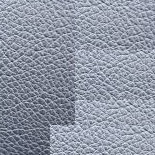
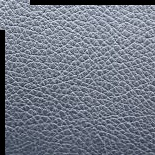
Somre progress on step 3

diff --git a/src/ImageQuilter.java b/src/ImageQuilter.java
@@ -177,24 +177,19 @@ public class ImageQuilter {
 						patchSize));
 
 				double sum = 0.0;
-				Mat leftOverlapDiff = new Mat();
-				Mat topOverlapDiff = new Mat();
+				
 
 				// Calculate ssd of left overlap
 				if (cellCol != 0) {
-					Mat sourceLeft = sourceCell.submat(new Rect(0, 0, overlapSize, sourceCell.rows()));
-					Mat outputLeft = outputCell.submat(new Rect(0, 0, overlapSize, outputCell.rows()));
-					Core.subtract(outputLeft, sourceLeft, leftOverlapDiff);
-					Core.pow(leftOverlapDiff, 2, leftOverlapDiff);
+					Mat leftOverlapDiff = leftOverlapDiff(outputCell, sourceCell);
+					
 					sum += Core.sumElems(leftOverlapDiff).val[0];
 				}
 
 				// Calculate ssd of top overlap
 				if (cellRow != 0) {
-					Mat sourceTop = sourceCell.submat(new Rect(0, 0, sourceCell.cols(), overlapSize));
-					Mat outputTop = outputCell.submat(new Rect(0, 0, outputCell.cols(), overlapSize));
-					Core.subtract(outputTop, sourceTop, topOverlapDiff);
-					Core.pow(topOverlapDiff, 2, topOverlapDiff);
+					Mat topOverlapDiff = topOverlapDiff(outputCell, sourceCell);
+					
 					sum += Core.sumElems(topOverlapDiff).val[0];
 				}
 
@@ -240,6 +235,40 @@ public class ImageQuilter {
 		}
 		return list;
 	}
+
+	/**
+	 * This method calculates the horizontal error surface of a pair of patches
+	 * @param outputCell
+	 * @param sourceCell
+	 * @return
+	 */
+	private Mat leftOverlapDiff(Mat outputCell, Mat sourceCell){
+		Mat leftOverlapDiff = new Mat();
+		
+		Mat sourceLeft = sourceCell.submat(new Rect(0, 0, overlapSize, sourceCell.rows()));
+		Mat outputLeft = outputCell.submat(new Rect(0, 0, overlapSize, outputCell.rows()));
+		Core.subtract(outputLeft, sourceLeft, leftOverlapDiff);
+		Core.pow(leftOverlapDiff, 2, leftOverlapDiff);
+		
+		return leftOverlapDiff;
+	}
+	
+	/**
+	 * This method calculates the vertical error surface of a pair of patches
+	 * @param outputCell
+	 * @param sourceCell
+	 * @return
+	 */
+	private Mat topOverlapDiff(Mat outputCell, Mat sourceCell){
+		Mat topOverlapDiff = new Mat();
+		
+		Mat sourceTop = sourceCell.submat(new Rect(0, 0, sourceCell.cols(), overlapSize));
+		Mat outputTop = outputCell.submat(new Rect(0, 0, outputCell.cols(), overlapSize));
+		Core.subtract(outputTop, sourceTop, topOverlapDiff);
+		Core.pow(topOverlapDiff, 2, topOverlapDiff);
+		
+		return topOverlapDiff;
+	}
 	
 	/**
 	 * 
@@ -248,17 +277,47 @@ public class ImageQuilter {
 	 */
 	private void fillPatch(Mat outputCell, Point outputLoc, Point sourceLoc) {
 		Mat sourceCell = textureImage.submat(new Rect((int) sourceLoc.x, (int) sourceLoc.y, patchSize, patchSize));
-		
+		int nonOverlapSize = patchSize-overlapSize;
 		
 		if(outputLoc.x==0){
+			Mat sourceOCell = sourceCell.submat(new Rect(0,0, overlapSize, patchSize));
+			Mat outputOCell = outputCell.submat(new Rect(0,0, overlapSize, patchSize));
+			sourceOCell.copyTo(outputOCell);
 			
+		}else if(outputLoc.y==0){
+			Mat sourceOCell = sourceCell.submat(new Rect(0,0, patchSize, overlapSize));
+			Mat outputOCell = outputCell.submat(new Rect(0,0, patchSize, overlapSize));
+			sourceOCell.copyTo(outputOCell);
+		}else{
+			Mat topOverlapDiff = topOverlapDiff(outputCell, sourceCell);
+			Mat leftOverlapDiff = leftOverlapDiff(outputCell, sourceCell);
+			MinPathFinder topFinder = new MinPathFinder(topOverlapDiff, false);
+			MinPathFinder leftFinder = new MinPathFinder(leftOverlapDiff, false);
+			Point leftLoc = new Point(0,0);
+			Point topLoc = new Point(0,0);
+			
+			// Find the best combine source
+			getIntersectionPath(leftFinder,topFinder, leftLoc, topLoc);
 		}
 		
-		int nonOverlapSize = patchSize-overlapSize;
+		// Fill the non-overlap region
 		Mat sourceNOCell = sourceCell.submat(new Rect(overlapSize,overlapSize, nonOverlapSize, nonOverlapSize));
-		Mat outputNOCell = sourceCell.submat(new Rect(overlapSize,overlapSize, nonOverlapSize, nonOverlapSize));
-		sourceCell.copyTo(outputCell);
-		//sourceNOCell.copyTo(outputNOCell);
+		Mat outputNOCell = outputCell.submat(new Rect(overlapSize,overlapSize, nonOverlapSize, nonOverlapSize));
+		sourceNOCell.copyTo(outputNOCell);
+		
+	}
+	
+	private void getIntersectionPath(MinPathFinder leftFinder,
+			MinPathFinder topFinder, Point leftLoc, Point topLoc) {
+		// Get the best combine location to start
+		double bestCost = leftFinder.costOf(0, 0) + topFinder.costOf(0, 0);
+		
+		for(int r=0; r<overlapSize;r++){
+			for(int c=0; c<overlapSize; c++){
+				double cost = leftFinder.costOf(r, c) + topFinder.costOf(r, c);
+				
+			}
+		}
 		
 	}
 	

diff --git a/src/MinPathFinder.java b/src/MinPathFinder.java
@@ -1,0 +1,119 @@
+import org.opencv.core.CvType;
+import org.opencv.core.Mat;
+import org.opencv.core.Point;
+
+
+public class MinPathFinder {
+	/**
+	 * cost[i][j] stores the commulative cost of going from spot i,j to the destination given as parameter in the constructor
+	 */
+	private Mat cost;
+	/**
+	 * path[i][j] stores the spot to go next from i,j heding towards destination. 
+	 */
+	private Point[][] path;
+	
+	/**
+	 * This constructor setup a path finder to find the min cost path from last row to the first row given the cost of being at each position
+	 * @param differences
+	 * @param allowHorizontal
+	 */
+	public MinPathFinder(Mat differences, boolean allowHorizontal){
+		int rows = differences.rows();
+		int cols =  differences.cols();
+		cost = new Mat(rows, cols, CvType.CV_64F);
+		path = new Point[differences.rows()][differences.cols()];
+		
+		// Set up destination row
+		for(int c=0;c<differences.cols();c++){
+			cost.put(0, c, differences.get(0, c)[0]);
+			path[0][c] = null;
+		}
+		
+		// Finish up if the path is already determined
+		if(cols==1){
+			for(int r=1;r>rows;r++){
+				cost.put(r, 0, cost.get(r-1, 0)[0] + differences.get(r, 0)[0]);
+				path[r][0] = new Point(0, r-1);
+			}
+			return;
+		}
+		
+		// Loop over the rows, getting closer to the source each iteration
+		for(int r=1;r<rows-1;r++){
+			
+			// Handle left column
+			double minCostPrevRow = Math.min(cost.get(r-1, 0)[0], cost.get(r-1, 1)[0]);
+			cost.put(r, 0, minCostPrevRow + differences.get(r, 0)[0]);
+			path[r][0] = new Point(0, r-1);
+			
+			// Handle middle columns
+			for(int c=1;c<cols-1;c++){
+				minCostPrevRow = Math.min(cost.get(r-1, c-1)[0], cost.get(r-1, c)[0]);
+				minCostPrevRow = Math.min(minCostPrevRow, cost.get(r-1, c+1)[0]);
+				cost.put(r, 0, minCostPrevRow + differences.get(r, c)[0]);
+				path[r][c] = new Point(c, r-1);
+			}
+			
+			// Handle right column
+			minCostPrevRow = Math.min(cost.get(r-1, cols-2)[0], cost.get(r-1, cols-1)[0]);
+			cost.put(r, 0, minCostPrevRow + differences.get(r, cols-1)[0]);
+			path[r][cols-1] = new Point(cols-1, r-1);
+			
+			// Check for horizontal movement along a row
+			if (allowHorizontal) {
+				handleHorizontalMovement(differences.row(r), r);
+			}
+		}
+		
+	}
+
+	private void handleHorizontalMovement(Mat row, int r) {
+		
+		boolean changed;
+		
+		do{
+			changed=false;
+		}
+		while(changed);
+		
+	}
+	
+	/**
+	 * Given a current location, this method returns the next point where it is needed to go to reach destination.
+	 * @param currentLoc
+	 * @return
+	 */
+	public Point follow(Point currentLoc){
+		return path[(int) currentLoc.y][(int) currentLoc.x];
+	}
+	
+	/**
+	 * This method returns the location of the best start column
+	 * @return
+	 */
+	public Point bestSourceLoc(){
+		int best=0;
+		for(int c=1;c<cost.cols();c++){
+			if(cost.get(cost.rows()-1, c)[0] < cost.get(cost.rows()-1, best)[0]){
+				best=c;
+			}
+		}
+		
+		return new Point(cost.rows()-1,best);
+	}
+	
+	public double costOf(int row, int col){
+		return cost.get(row, col)[0];
+	}
+
+	public Mat getCost() {
+		return cost;
+	}
+
+	public Point[][] getPath() {
+		return path;
+	}
+	
+	
+}
